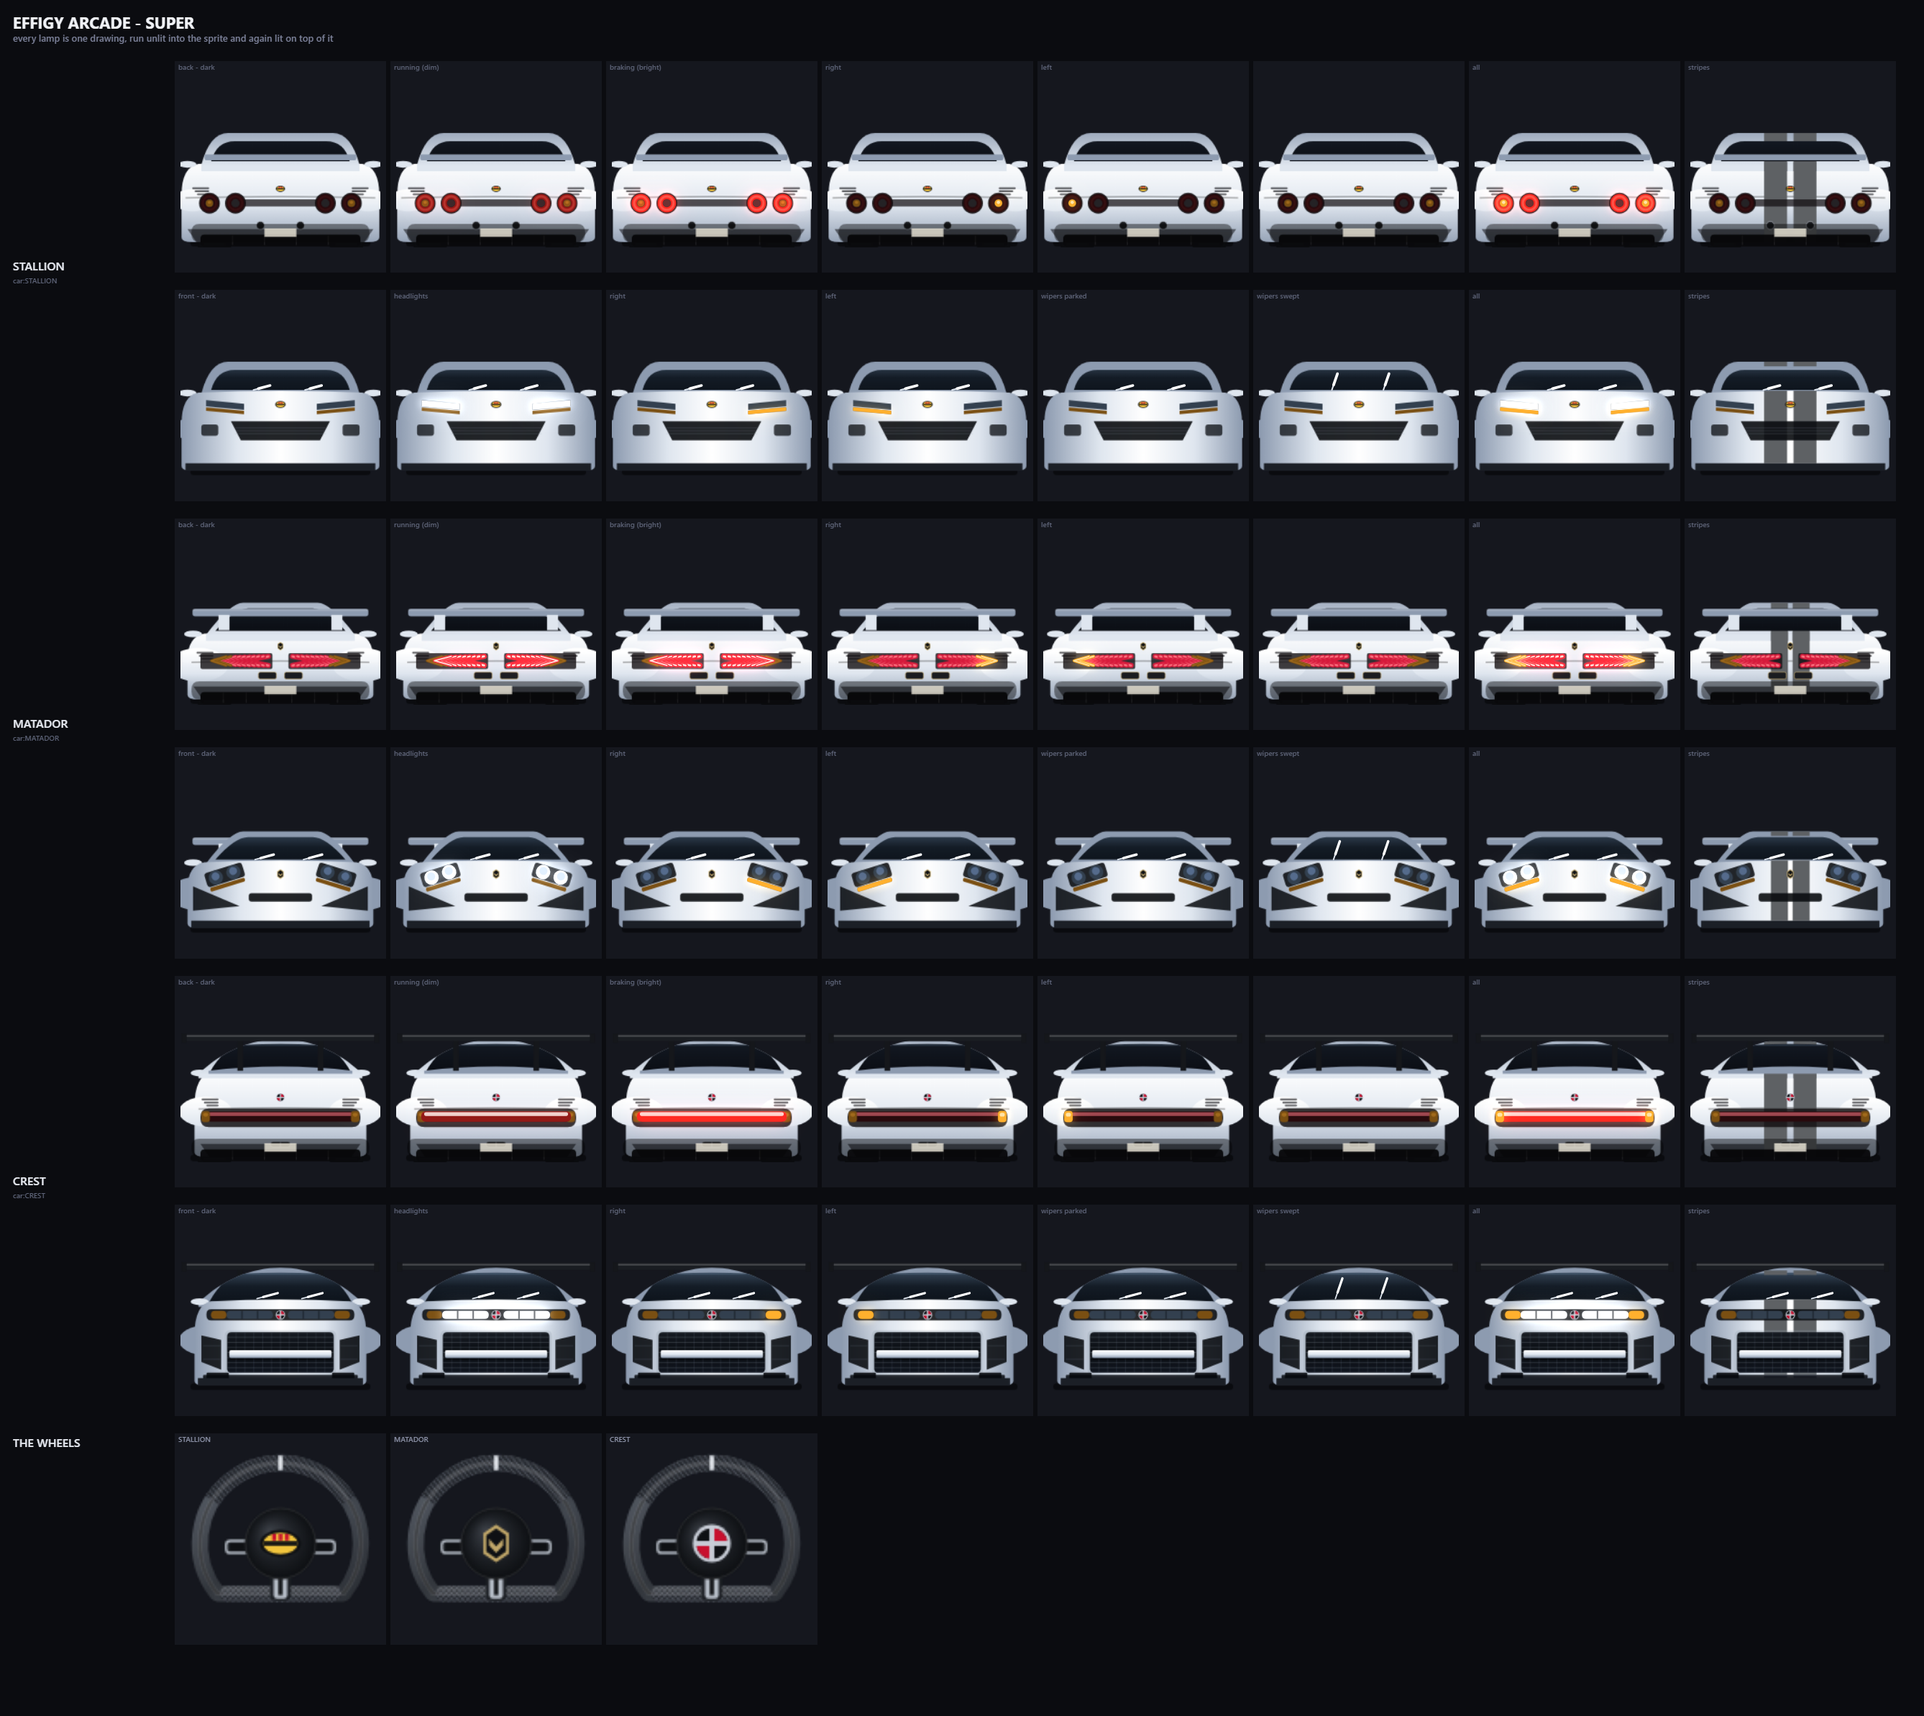
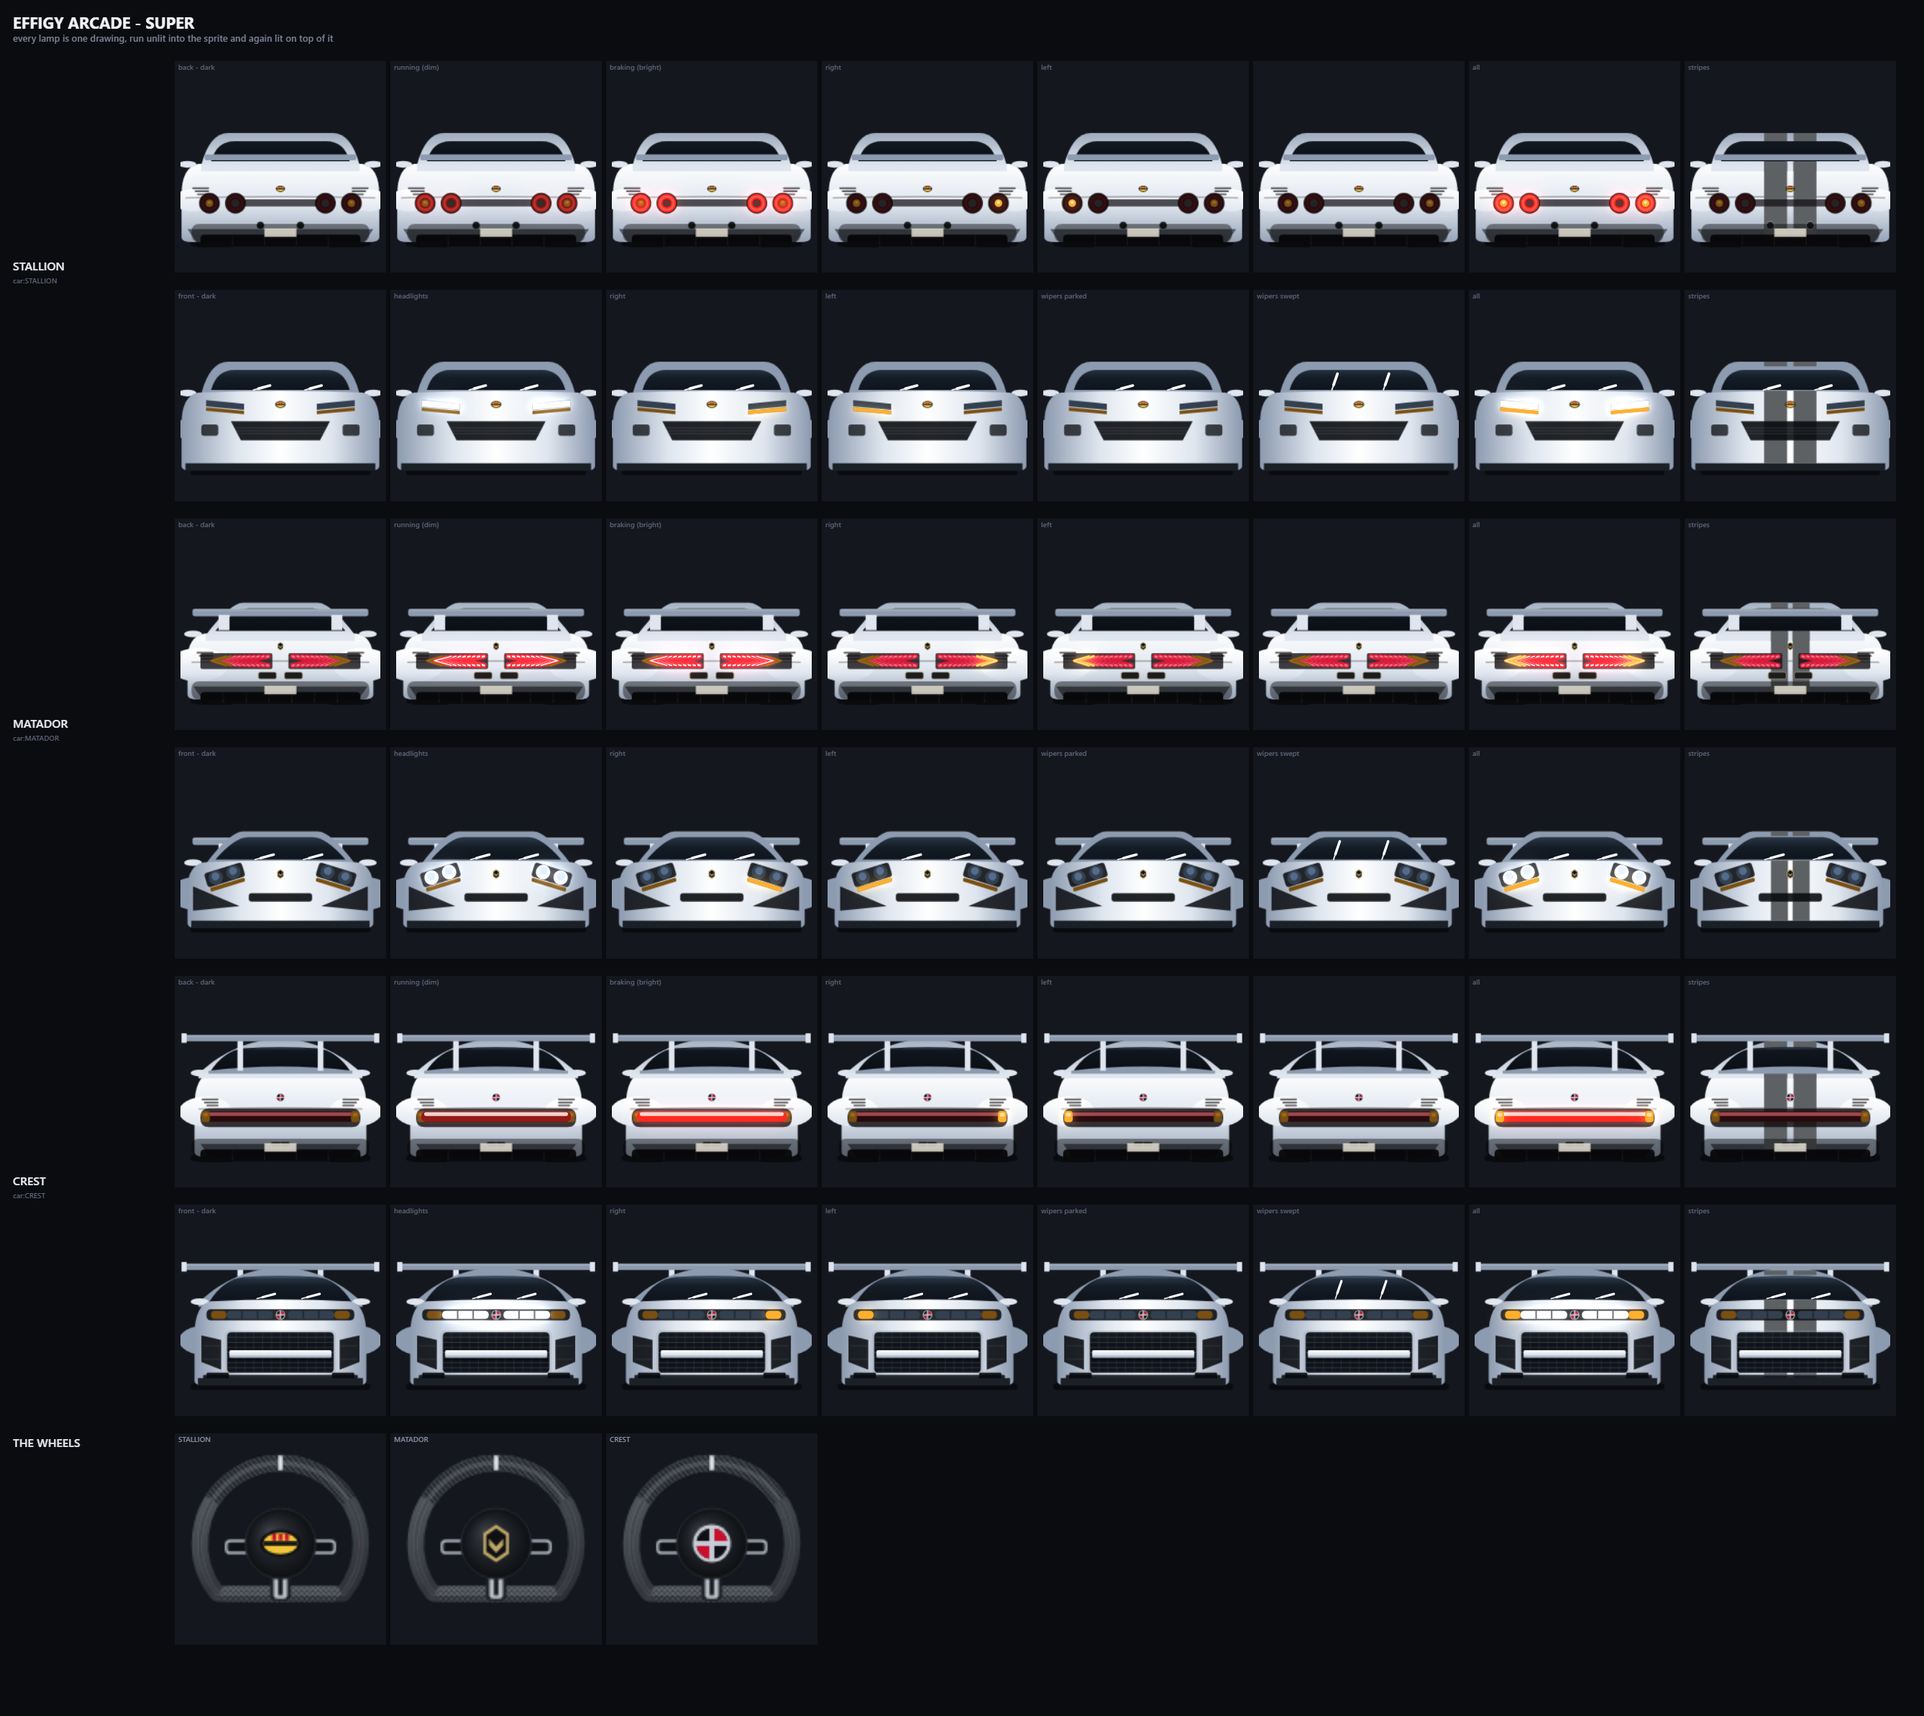
The CREST's spoiler wears the car's own paint
Owner, 2026-09-09: "let's make its spoiler colored like the matador's."

A CREST in any paint wore a black wing. MATADOR's aerofoil is `o.lo` with a white
lift along its top edge and stanchions in `o.body` - the car's own colour.
CREST's ducktail blade was a fixed '#1a1d22' with '#15171b' uprights, so a colour
the player chose in the garage stopped at the deck, and the largest single
feature on the back of the car ignored it.

The shape is what separates the two cars, not the paint. MATADOR wears an
aerofoil on stanchions standing up from the deck; CREST wears a swan-neck blade
hanging from uprights above a ducktail. Those are different wings and they stay
different wings. What had been doing some of the separating by accident was that
one of them was painted and the other was not - which is not a design decision,
it is what a hardcoded colour looks like after the rest of the car learned to
take the player's.

Both ends read `carWing`, so the face and the tail cannot disagree about it, and
the check confirms the seventeen silhouettes are unchanged.

RLG-192, UNT-238.

Changed region(s): [[0.093, 0.5893, 0.9925, 0.6203], [0.093, 0.7133, 0.9615, 0.7443]]

diff --git a/road.js b/road.js
@@ -256,7 +256,7 @@ const PLAYER_Z = CAM_H*CAM_D;
    worker serves scripts network-first with a cache fallback, so a device can end
    up with a fresh shell beside a cached engine, and the tag says MIXED when it
    does. Bumped with `Arcade.version`, in the same commit, every time. */
-window.ROAD_BUILD = '0.13.63';
+window.ROAD_BUILD = '0.13.64';
 
 const LANE_X = [-0.75,-0.25,0.25,0.75];
 /* ---- ONE LANE, and the unit every lateral move is written in ---------------
@@ -2728,6 +2728,17 @@ function carWing(g, w, h, S, o){
     return;
   }
   if(S.wing === 'ducktail'){
+    /* ---- AND IT IS THE CAR'S OWN COLOUR (owner, 2026-09-09) ------------
+       "let's make its spoiler colored like the matador's."
+
+       MATADOR's aerofoil is `o.lo` with a white lift along its top edge and
+       stanchions in `o.body`. This blade was a fixed '#1a1d22' with '#15171b'
+       uprights, so a CREST in ANY paint wore a black wing - a colour you chose
+       stopped at the deck. Same three values as the high wing now, on the
+       ducktail's own geometry: what separates the two cars from behind is the
+       SHAPE of the wing, which is unchanged, rather than the fact that one of
+       them was painted and the other was not.
+       ---------------------------------------------------------------- */
     /* a swan-neck wing held high above the deck on two uprights that hang from
        the top of the blade, with a small ducktail below it */
     g.fillStyle = o.lo;
@@ -2737,14 +2748,14 @@ function carWing(g, w, h, S, o){
     g.lineTo(w*0.86, topY+h*0.02);
     g.lineTo(w*0.14, topY+h*0.02);
     g.closePath(); g.fill();
-    g.fillStyle = '#15171b';
+    g.fillStyle = o.body;
     g.fillRect(w*0.285, topY-h*0.20, w*0.028, h*0.20);
     g.fillRect(w*0.687, topY-h*0.20, w*0.028, h*0.20);
-    g.fillStyle = '#1a1d22';
+    g.fillStyle = o.lo;
     rr(g, w*0.015, topY-h*0.235, w*0.97, h*0.042, 2); g.fill();
-    g.fillStyle = 'rgba(255,255,255,.18)';
+    g.fillStyle = 'rgba(255,255,255,.16)';
     rr(g, w*0.015, topY-h*0.235, w*0.97, h*0.013, 2); g.fill();
-    g.fillStyle = '#15171b';
+    g.fillStyle = o.body;
     g.fillRect(w*0.005, topY-h*0.245, w*0.026, h*0.062);
     g.fillRect(w*0.969, topY-h*0.245, w*0.026, h*0.062);
     return;

diff --git a/arcade.js b/arcade.js
@@ -44,7 +44,7 @@ var A = window.Arcade = window.Arcade || {};
    over would have said "nearly done" about work that has barely started. The
    version tracks THIS product. The maturity of the engine underneath it is
    recorded in the git history, which came across whole. */
-A.version = '0.13.63';
+A.version = '0.13.64';
 
 /* ---- WHICH BUILD AM I PLAYING? -------------------------------------------
    Asked for by the owner, 2026-08-29, and it is a testing tool rather than

diff --git a/docs/fragments/THR-001.md b/docs/fragments/THR-001.md
@@ -3,8 +3,8 @@ id                = "THR-001"
 kind              = "thread"
 status            = "current"
 writer            = "EffigyMedia"
-focus             = "UNT-237 closed - nothing open"
-next_action       = "The CREST's spoiler takes the MATADOR's colouring - the owner asked for it on 2026-09-09, and the ducktail blade is currently a fixed near-black so a CREST in any paint wears a black wing. Then the pickup's cab shaded darker at the rear; then a garage toggle hiding the unlocked production and utility vehicles; then rename the RACER personality to OUTLAW and RIVAL to RACER; then LORRY to SEMI; then RLG-181, RLG-174, RLG-175."
+focus             = "UNT-238 closed - nothing open"
+next_action       = "The pickup's cab shaded darker at the rear, because from behind it is the far end of the truck - the owner asked for it on 2026-09-09 and it is the rule the formula wings already take. Then a garage toggle hiding the unlocked production and utility vehicles; then rename the RACER personality to OUTLAW and RIVAL to RACER; then LORRY to SEMI; then RLG-181, RLG-174, RLG-175."
 next_origin       = "stated"
 created           = "2026-08-28T09:15:21-04:00"
 created_precision = "second"
@@ -16,9 +16,9 @@ see_also          = []
 
 ### THR-001 — thread: EffigyMedia
 
-**▶ Focus** — UNT-237 closed - nothing open
+**▶ Focus** — UNT-238 closed - nothing open
 
-**▶ Next action** — **"The CREST's spoiler takes the MATADOR's colouring - the owner asked for it on 2026-09-09, and the ducktail blade is currently a fixed near-black so a CREST in any paint wears a black wing. Then the pickup's cab shaded darker at the rear; then a garage toggle hiding the unlocked production and utility vehicles; then rename the RACER personality to OUTLAW and RIVAL to RACER; then LORRY to SEMI; then RLG-181, RLG-174, RLG-175."**
+**▶ Next action** — **"The pickup's cab shaded darker at the rear, because from behind it is the far end of the truck - the owner asked for it on 2026-09-09 and it is the rule the formula wings already take. Then a garage toggle hiding the unlocked production and utility vehicles; then rename the RACER personality to OUTLAW and RIVAL to RACER; then LORRY to SEMI; then RLG-181, RLG-174, RLG-175."**
 - Origin: `stated` — the owner said it, quoted above; **authoritative** ([[RLG-089]])
 
 **Constraints in force**
@@ -140,4 +140,4 @@ see_also          = []
 - THE SUPERCRUISER UNLOCK PAYS NOTHING (RLG-181, found 2026-09-09). A supercar gold under pursuit writes the `supercruiser` flag, garageBodies has a debug branch for it and the reward screen counts it - but BODY.SUPERCRUISER carries npc:true, so it is not a garage car and never reaches the list. The prize exists and unlocks nothing drivable. Not fixed: making the interceptor drivable is a feature and the owner has not asked for it
 - THE GARAGE CARD CANNOT FIX THE FLEET AND TWO ATTEMPTS PROVED IT. RLG-182 matched the two heights by scaling each end on its own and clipped the width; RLG-184 capped the scale by width and the heights went back out for six cars. The card has one degree of freedom per end and the sprites disagree in two dimensions, so any third attempt at arithmetic on the card is wasted - the drawings have to change
 
-*Maintained continuously — never written at the threshold ([[RLG-089]]). Last touched 2026-09-09T19:02:37-04:00 by unit closed UNT-237.*
+*Maintained continuously — never written at the threshold ([[RLG-089]]). Last touched 2026-09-09T19:04:19-04:00 by unit closed UNT-238.*

diff --git a/docs/fragments/EVD-607.md b/docs/fragments/EVD-607.md
@@ -1,0 +1,74 @@
++++
+id                = "EVD-607"
+kind              = "evidence"
+status            = "recorded"
+step              = "the CREST's painted blade is the same shape at both ends and the fleet still matches"
+unit              = "UNT-238"
+command           = "P:\\Code_Continuum\\Projects\\In-Dev\\Effigy_Arcade\\.venv\\Scripts\\python.exe tools/car-ends-test.py"
+exit_code         = 0
+duration_ms       = 6198
+output_bytes      = 3668
+output_sha        = "96e26d6d72915b65a2eaad5dc57d2e0c"
+store_stamp       = "346a53cacc0e86f6"
+created           = "2026-09-09T19:04:03-04:00"
+created_precision = "second"
+supersedes        = []
+blocks            = []
+caused_by         = []
+see_also          = []
++++
+
+### EVD-607 — step `the CREST's painted blade is the same shape at both ends and the fleet still matches` of [[UNT-238]]
+
+- Ran: `P:\Code_Continuum\Projects\In-Dev\Effigy_Arcade\.venv\Scripts\python.exe tools/car-ends-test.py`
+- Result: **exit 0**, in 6198 ms
+- Output: 3668 bytes, sha256 `96e26d6d72915b65a2eaad5dc57d2e0c`
+- Store stamp at the time: `346a53cacc0e86f6`
+
+**Output** — head only; the digest above covers the whole of it, so this excerpt cannot be selective without saying so.
+
+```
+car-ends-test  .  every car, its front against its own back
+  browser: playwright bundled chromium (pinned)
+  CAR             back WxH front WxH       dW       dH
+  AMBULANCE       192x166   192x166         0        0
+  APEX            214x99    214x99          0        0
+  CAB             188x145   188x145         0        0
+  COMET           214x99    214x99          0        0
+  COUPE           192x116   192x116         0        0
+  CREST           220x142   220x141         0       -1   <-- differs
+  CRUISER         188x146   188x146         0        0
+  LORRY           210x239   210x239         0        0
+  MATADOR         220x113   220x112         0       -1   <-- differs
+  MUSCLE          196x126   196x126         0        0
+  PICKUP          186x158   186x158         0        0
+  ROADSTER        192x104   192x104         0        0
+  SALOON          188x137   188x137         0        0
+  STALLION        220x126   220x125         0       -1   <-- differs
+  TUNER           192x116   192x116         0        0
+  VAN             192x158   192x158         0        0
+  VECTOR          214x99    214x99          0        0
+
+  CAR              meanErr  worstCol   silhouette
+  AMBULANCE           0.0%      0.0%   match
+  APEX                0.0%      0.0%   match
+  CAB                 0.0%      0.0%   match
+  COMET               0.0%      0.0%   match
+  COUPE               0.0%      0.0%   match
+  CREST               0.4%      0.7%   match
+  CRUISER             0.1%      0.7%   match
+  LORRY               0.0%      0.0%   match
+  MATADOR             0.6%      0.9%   match
+  MUSCLE              0.0%      0.0%   match
+  PICKUP              0.0%      0.0%   match
+  ROADSTER            0.0%      0.0%   match
+  SALOON              0.0%      0.0%   match
+  STALLION            0.6%      0.8%   match
+  TUNER               0.0%      0.0%   match
+  VAN                 0.0%      0.0%   match
+  VECTOR              0.0%      0.0%   match
+  ok    every car had its outline read   17 profiled
+... 25 more line(s), covered by the digest
+```
+
+*Written by `step.py` as a byproduct of running the step. **Nobody attested to this** ([[RLG-081]]).*

diff --git a/docs/fragments/RLG-192.md b/docs/fragments/RLG-192.md
@@ -1,0 +1,30 @@
++++
+id                = "RLG-192"
+kind              = "ruling"
+type              = "fix"
+status            = "in-flight"
+created           = "2026-09-09T19:03:55-04:00"
+created_precision = "second"
+source            = "owner request, 2026-09-09"
+supersedes        = []
+blocks            = []
+caused_by         = []
+see_also          = []
++++
+
+### RLG-192 — The CREST's spoiler wears the car's own paint
+- **RULED 2026-09-09T19:03:56-04:00** — **Owner, 2026-09-09:** *"let's make its spoiler colored like the matador's."*
+
+**A CREST IN ANY PAINT WORE A BLACK WING.** MATADOR's aerofoil is `o.lo` with a white lift along its
+top edge and stanchions in `o.body` - the car's own colour. CREST's ducktail blade was a fixed
+'#1a1d22' with '#15171b' uprights, so a colour the player chose in the garage stopped at the deck and
+the largest single feature on the back of the car ignored it.
+
+**THE SHAPE IS WHAT SEPARATES THE TWO CARS, NOT THE PAINT.** MATADOR wears an aerofoil on stanchions
+that stand up from the deck; CREST wears a swan-neck blade hanging from uprights above a ducktail.
+Those are different wings and they stay different wings. What was doing the separating by accident
+was that one of them was painted and the other was not, which is not a design decision - it is what a
+hardcoded colour looks like after the rest of the car learned to take the player's.
+
+Same three values as the high wing now, on the ducktail's own geometry. Both ends read `carWing`, so
+the face and the tail cannot disagree about it ([[RLG-184]]).

diff --git a/docs/fragments/UNT-238.md b/docs/fragments/UNT-238.md
@@ -1,0 +1,24 @@
++++
+id                = "UNT-238"
+kind              = "unit"
+status            = "closed"
+cost              = 7747
+closed            = "2026-09-09T19:04:19-04:00"
+created           = "2026-09-09T19:03:02-04:00"
+created_precision = "second"
+supersedes        = []
+blocks            = []
+caused_by         = []
+see_also          = []
+delegate          = false
+effort            = "medium"
+model             = "claude-sonnet-5"
+ran_on            = "claude-opus-5"
+routing           = "fix"
++++
+
+### UNT-238 - The CREST's spoiler wears the car's own paint, as the MATADOR's does
+
+- Routing class: `fix` -> **claude-sonnet-5**, effort **medium**. Bias 1. A known defect with a known cause. ([[RLG-092]])
+- Opened by `unit.py`. **The identity exists before the first edit** ([[RLG-097]]), so the snapshot has somewhere to go.
+- **CLOSED 2026-09-09T19:04:19-04:00** - The CREST's ducktail blade and its uprights take the car's own paint, the same three values the MATADOR's aerofoil uses. A colour chosen in the garage no longer stops at the deck. The shape of each wing is untouched, which is what separates the two cars.

diff --git a/docs/core/changelog.md b/docs/core/changelog.md
@@ -14,6 +14,15 @@ barely started, and 0.9.x would have claimed otherwise.
 
 ---
 
+<a id="v0-13-64"></a>
+## [0.13.64] - 2026-09-09
+- Changed: **the CREST's spoiler wears the car's own paint.** Owner, 2026-09-09: "let's make its
+  spoiler colored like the matador's." The ducktail blade was a fixed near-black with near-black
+  uprights, so a CREST in any colour wore a black wing and the largest feature on the back of the car
+  ignored the garage. It takes the same three values the MATADOR's aerofoil does, on the ducktail's
+  own geometry - the shape is what separates the two cars, not the paint. See
+  [RLG-192](../fragments/RLG-192.md).
+
 <a id="v0-13-63"></a>
 ## [0.13.63] - 2026-09-09
 - Changed: **more edge on the CREST's dome.** Owner, 2026-09-09: "I also want a bit more edge to the
